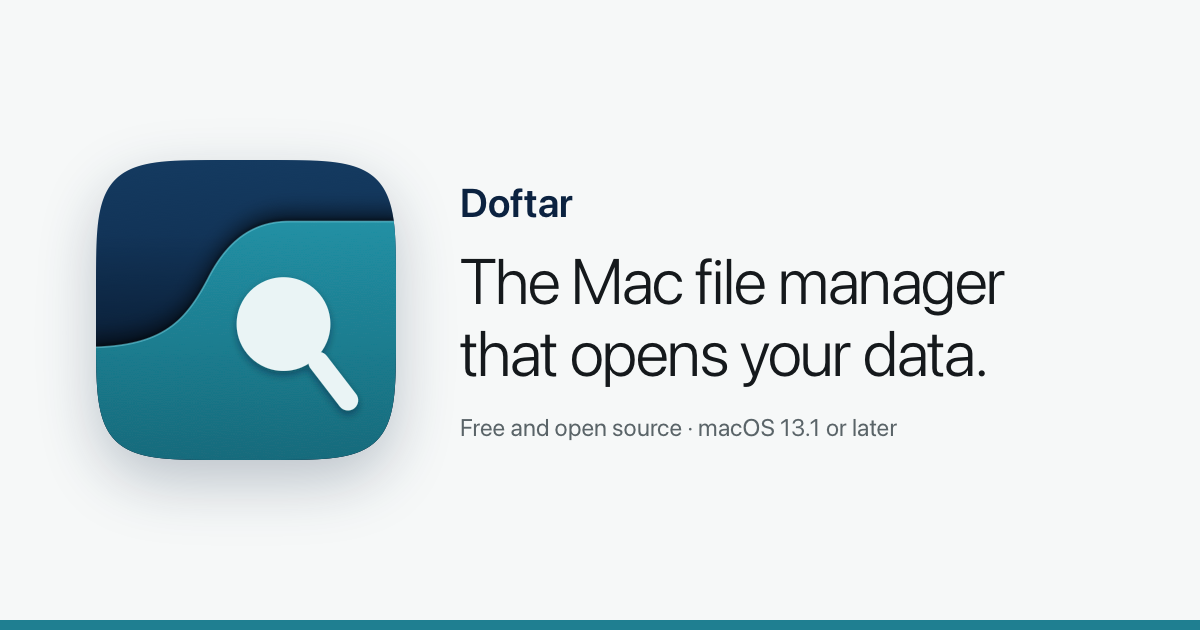
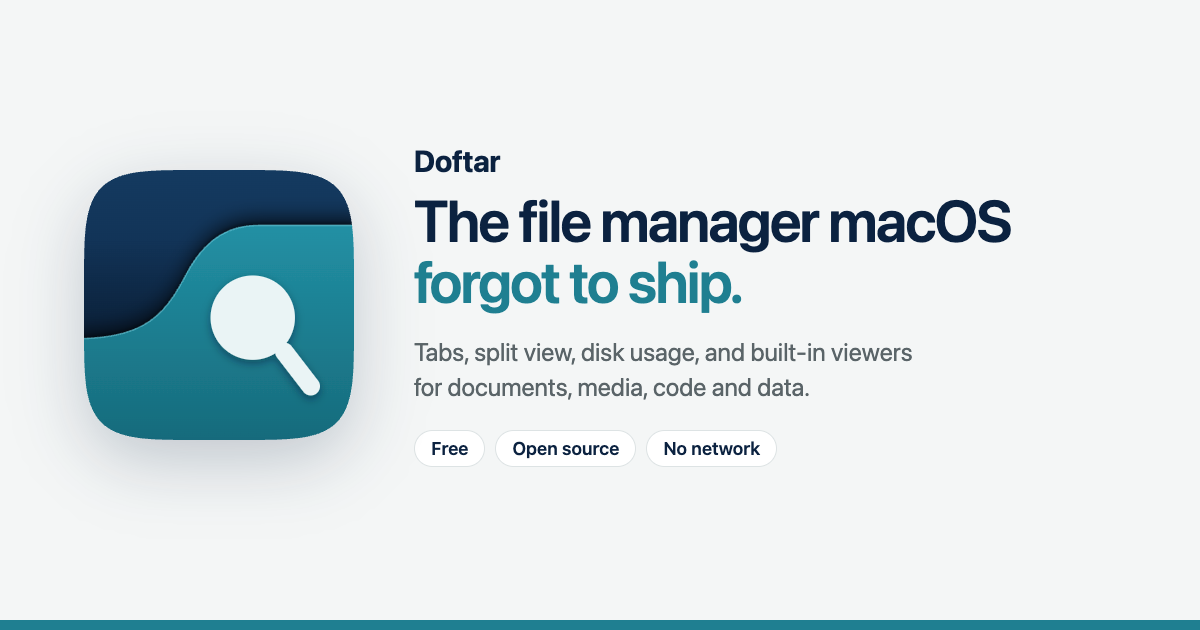
Redo the social card: new headline and its HTML source

Changed region(s): [[0.0617, 0.2413, 0.8633, 0.754], [0.3392, 0.6635, 0.74, 0.7238], [0.3392, 0.2413, 0.4317, 0.2714]]

diff --git a/scripts/og-card.html b/scripts/og-card.html
@@ -1,0 +1,36 @@
+<!doctype html>
+<!-- Social card for doftar.app (docs/assets/og.png). Render from the repo root with:
+     "/Applications/Google Chrome.app/Contents/MacOS/Google Chrome" --headless --hide-scrollbars \
+       --force-device-scale-factor=1 --window-size=1200,630 \
+       --screenshot="$PWD/docs/assets/og.png" "file://$PWD/scripts/og-card.html" -->
+<html lang="en">
+<head>
+<meta charset="utf-8">
+<style>
+  html, body { margin: 0; width: 1200px; height: 630px; overflow: hidden; }
+  body {
+    display: flex; align-items: center; gap: 60px; box-sizing: border-box;
+    padding: 0 64px 10px 84px; background: #f4f6f6;
+    border-bottom: 10px solid #1f7f91;
+    font-family: -apple-system, BlinkMacSystemFont, "SF Pro Display", "Helvetica Neue", Arial, sans-serif;
+    color: #15191c;
+  }
+  img { flex: none; width: 270px; height: 270px; filter: drop-shadow(0 22px 34px rgb(11 34 64 / 0.22)); }
+  .name { margin: 0 0 12px; font-size: 30px; font-weight: 700; color: #0b2240; letter-spacing: -0.015em; }
+  h1 { margin: 0; font-size: 58px; line-height: 1.06; font-weight: 600; letter-spacing: -0.03em; color: #0b2240; }
+  h1 span { color: #1f7f91; }
+  p { margin: 22px 0 0; font-size: 25px; line-height: 1.4; color: #5a6468; letter-spacing: -0.005em; }
+  ul { display: flex; gap: 10px; margin: 26px 0 0; padding: 0; list-style: none; }
+  li { padding: 7px 16px; border-radius: 999px; background: #fff; border: 1px solid #dde3e4; font-size: 18px; font-weight: 600; color: #0b2240; }
+</style>
+</head>
+<body>
+  <img src="../docs/assets/doftar-icon.svg" alt="">
+  <div>
+    <div class="name">Doftar</div>
+    <h1>The file manager macOS<br><span>forgot to ship.</span></h1>
+    <p>Tabs, split view, disk usage, and built-in viewers<br>for documents, media, code and data.</p>
+    <ul><li>Free</li><li>Open source</li><li>No network</li></ul>
+  </div>
+</body>
+</html>

diff --git a/docs/index.html b/docs/index.html
@@ -15,15 +15,15 @@
 <meta property="og:title" content="Doftar · A free, offline file manager for macOS">
 <meta property="og:description" content="A free, offline macOS file manager with tabs, split view and built-in viewers for code, data and notebooks.">
 <meta property="og:url" content="https://doftar.app/">
-<meta property="og:image" content="https://doftar.app/assets/og.png">
+<meta property="og:image" content="https://doftar.app/assets/og.png?v=2">
 <meta property="og:image:width" content="1200">
 <meta property="og:image:height" content="630">
-<meta property="og:image:alt" content="The Doftar icon beside the words: The Mac file manager that opens your data.">
+<meta property="og:image:alt" content="The Doftar icon beside the words: The file manager macOS forgot to ship.">
 <meta name="twitter:card" content="summary_large_image">
 <meta name="twitter:title" content="Doftar · A free, offline file manager for macOS">
 <meta name="twitter:description" content="A free, offline macOS file manager with tabs, split view and built-in viewers for code, data and notebooks.">
-<meta name="twitter:image" content="https://doftar.app/assets/og.png">
-<meta name="twitter:image:alt" content="The Doftar icon beside the words: The Mac file manager that opens your data.">
+<meta name="twitter:image" content="https://doftar.app/assets/og.png?v=2">
+<meta name="twitter:image:alt" content="The Doftar icon beside the words: The file manager macOS forgot to ship.">
 <meta name="theme-color" content="#ffffff">
 <link rel="stylesheet" href="style.css">
 <script type="application/ld+json">
